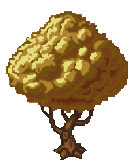
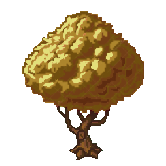
Update Tree component

diff --git a/src/components/Tree/Tree.tsx b/src/components/Tree/Tree.tsx
@@ -1,65 +1,33 @@
 import { useState, useEffect, useMemo } from 'react';
 import { Image, Group } from 'react-konva';
-import tree1Image from './assets/images/tree1.png';
-import tree2Image from './assets/images/tree2.png';
+import color1 from './assets/images/tree1.png';
+import color2 from './assets/images/tree2.png';
 import useImage from 'use-image';
-import type { Plant } from 'types/Plant';
-import type { Player } from 'types/Player';
 
 type Props = {
-  tree: Plant;
+  id: string;
+  color: 1 | 2;
   x: number;
   y: number;
-  hexagonHeight: number;
-  players: Player[]
+  size: number;
+  onClick?: (id: string) => void;
 }
 
-const Tree = ({ tree, x, y, hexagonHeight, players }: Props) => {
-  const [plantLevel, setPlantLevel] = useState(tree.PlantLevel);
-  const treeHeight = useMemo(() => hexagonHeight * 0.25 * plantLevel, [hexagonHeight, plantLevel]);
-
-  const imageSrc = players[0].Id === tree.OwnedBy ? tree1Image : tree2Image;
-  const [image] = useImage(imageSrc);
-  const [imgWidth, setImgWidth] = useState(0);
-
-  useEffect(() => {
-    if (image) {
-      const ratio = image.width / image.height;
-      setImgWidth(image.height * ratio);
-    }
-  }, [image]);
-
-  if (!tree || tree.PlantLevel === -1) {
-    return null;
-  }
-
-
-  const bottomOfHex = y + hexagonHeight / 2;
-  const adjustedY = bottomOfHex - treeHeight - hexagonHeight * 0.2;
-
-  const handleTreeClick = () => {
-    if (plantLevel < 3) {
-      setPlantLevel(plantLevel + 1);
-    }
-    if (plantLevel === 3) {
-      setPlantLevel(0);
-    }
-  }
-
-  console.log(imageSrc);
-
+const Tree = ({ id, color, x, y, size, onClick = () => {}}: Props) => {
+  const imagesColor = [color1, color2];
+  const [image] = useImage(imagesColor[color - 1]);
   // Использование plantLevel как части ключа заставит React пересоздать компонент TreeImage
   // при каждом изменении размера, что позволит корректно обновить его размеры
   return (
     <Group>
       <Image
-        key={`${plantLevel}-${imageSrc}`}
         image={image}
-        x={x - imgWidth / 2}
-        y={adjustedY}
-        width={imgWidth}
-        height={image?.height}
-        onClick={handleTreeClick} // Добавляем обработчик клика здесь
+        x={x}
+        y={y}
+        width={size}
+        height={size}
+        onClick={() => onClick(id)}
+        zIndex={1000}
       />
     </Group>
   );

diff --git a/src/components/Tree/Tree_old.tsx b/src/components/Tree/Tree_old.tsx
@@ -1,0 +1,68 @@
+import { useState, useEffect, useMemo } from 'react';
+import { Image, Group } from 'react-konva';
+import tree1Image from './assets/images/tree1.png';
+import tree2Image from './assets/images/tree2.png';
+import useImage from 'use-image';
+import type { Plant } from 'types/Plant';
+import type { Player } from 'types/Player';
+
+type Props = {
+  tree: Plant;
+  x: number;
+  y: number;
+  hexagonHeight: number;
+  players: Player[]
+}
+
+const TreeOld = ({ tree, x, y, hexagonHeight, players }: Props) => {
+  const [plantLevel, setPlantLevel] = useState(tree.PlantLevel);
+  const treeHeight = useMemo(() => hexagonHeight * 0.25 * plantLevel, [hexagonHeight, plantLevel]);
+
+  const imageSrc = players[0].Id === tree.OwnedBy ? tree1Image : tree2Image;
+  const [image] = useImage(imageSrc);
+  const [imgWidth, setImgWidth] = useState(0);
+
+  useEffect(() => {
+    if (image) {
+      const ratio = image.width / image.height;
+      setImgWidth(image.height * ratio);
+    }
+  }, [image]);
+
+  if (!tree || tree.PlantLevel === -1) {
+    return null;
+  }
+
+
+  const bottomOfHex = y + hexagonHeight / 2;
+  const adjustedY = bottomOfHex - treeHeight - hexagonHeight * 0.2;
+
+  const handleTreeClick = () => {
+    if (plantLevel < 3) {
+      setPlantLevel(plantLevel + 1);
+    }
+    if (plantLevel === 3) {
+      setPlantLevel(0);
+    }
+  }
+
+  console.log(imageSrc);
+
+  // Использование plantLevel как части ключа заставит React пересоздать компонент TreeImage
+  // при каждом изменении размера, что позволит корректно обновить его размеры
+  return (
+    <Group>
+      <Image
+        key={`${plantLevel}-${imageSrc}`}
+        image={image}
+        x={x - imgWidth / 2}
+        y={adjustedY}
+        width={imgWidth}
+        height={image?.height}
+        onClick={handleTreeClick} // Добавляем обработчик клика здесь
+      />
+    </Group>
+  );
+};
+
+export { TreeOld };

diff --git a/src/components/Board/Board.tsx b/src/components/Board/Board.tsx
@@ -16,6 +16,11 @@ const hexToScreen = (q: number, r: number) => {
   return { x, y };
 };
 
+enum PlayerColor {
+  ORANGE = 1,
+  GREEN = 2,
+};
+
 type Props = {
   hexagonsData: Cell[];
   centerX: number;
@@ -28,13 +33,24 @@ const Board = ({ hexagonsData, centerX, centerY, gameState }: Props) => {
 
   const hexagonSize = window.innerHeight / 16;
 
+  const handleTreeClick = (id: string) => {
+    console.log(id);
+  }
+
+  const getTreeColor = (gameState: Game, hexData: Cell) => {
+    return gameState.Players[0].Id === hexData.Plant?.OwnedBy ? PlayerColor.GREEN : PlayerColor.ORANGE;
+  }
+
   return (
     <Layer>
       {hexagonsData.map((hexData, index) => {
         const { x, y } = hexToScreen(hexData.CubeCoord.X, hexData.CubeCoord.Z);
         const posX = centerX + x;
         const posY = centerY + y;
-
+        let treeSize = 0;
+        if (hexData.Plant) {
+          treeSize = hexagonHeight * 0.33 * hexData.Plant?.PlantLevel;
+        }
         return (
           <React.Fragment key={index}>
             <RegularPolygon
@@ -48,13 +64,15 @@ const Board = ({ hexagonsData, centerX, centerY, gameState }: Props) => {
             />
             {hexData.Plant &&
               <Tree
-                tree={hexData.Plant}
-                x={posX}
-                y={posY}
-                hexagonHeight={hexagonHeight}
-                players={gameState.Players}
+                id={hexData.Plant.Id}
+                color={getTreeColor(gameState, hexData)}
+                x={posX - treeSize / 2}
+                y={posY - treeSize / 2}
+                size={treeSize}
+                onClick={handleTreeClick}
               />
             }
+
           </React.Fragment>
         );
       })}
